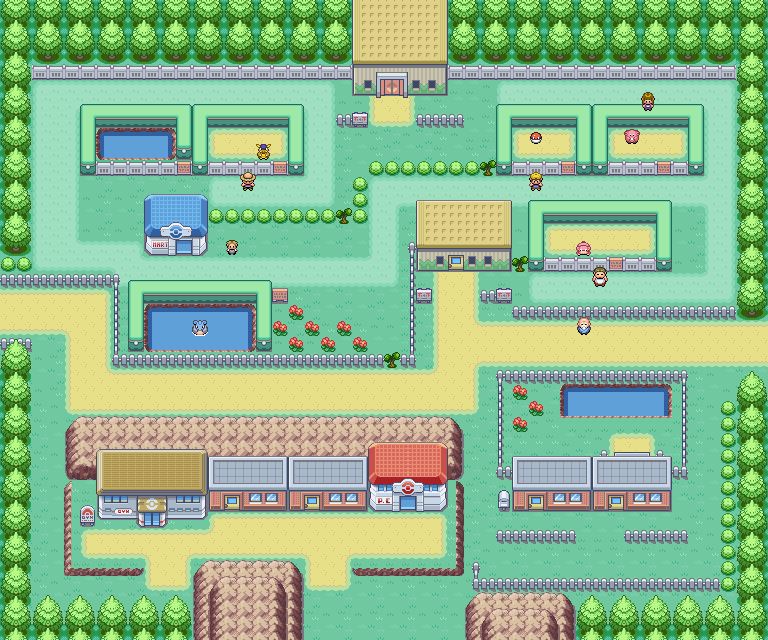
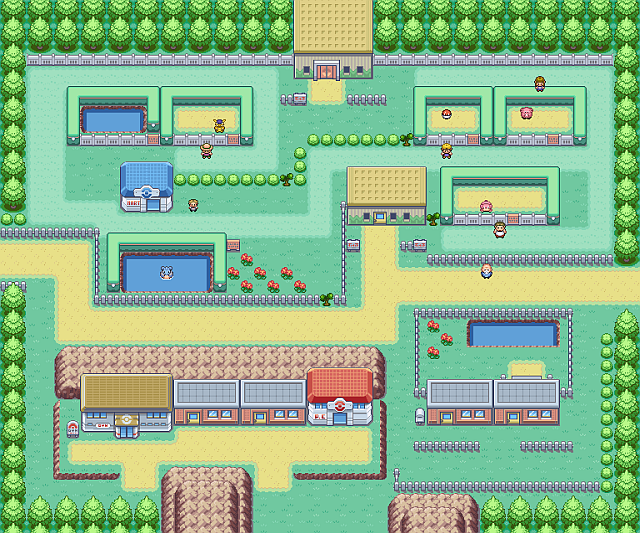
Resized town images/cerulean clicky
*Town images are now 640 width X whatever height
*Cerulean can now be clicked. Some stuff needs implementing

diff --git a/src/styles/style.scss b/src/styles/style.scss
@@ -533,15 +533,15 @@ progress.expBar {
 #palletTownModalBox {
     background-image: url('../assets/backgrounds/kanto/palletTown/palletTown.png');
     background-size: cover;
-    height: 320px;
-    width: 384px;
+    height: 533px;
+    width: 640px;
 }
 
 #palletTownNoOakModalBox {
     background-image: url('../assets/backgrounds/kanto/palletTown/palletTownNoOak.png');
     background-size: cover;
-    height: 320px;
-    width: 384px;
+    height: 533px;
+    width: 640px;
 }
 
 #redHouseModalBox {
@@ -582,8 +582,8 @@ progress.expBar {
 #viridianCityModalBox {
     background-image: url('../assets/backgrounds/kanto/viridianCity/viridianCity.png');
     background-size: cover;
-    width: 568px;
-    height: 473px;
+    height: 533px;
+    width: 640px;
 }
 
 #viridianPokeMartModalBox {
@@ -617,12 +617,8 @@ progress.expBar {
 #pewterCityModalBox {
     background-image: url('../assets/backgrounds/kanto/pewterCity/pewterCity.png');
     background-size: cover;
-    height: 320px;
-    width: 384px;
-}
-
-#pewterCityModalBox .button {
-    background-color: rgb(58, 58, 58);
+    width: 640px;
+    height: 533px;
 }
 
 #pewterMuseumModalBox {
@@ -670,11 +666,8 @@ progress.expBar {
 #ceruleanCityModalBox {
     background-image: url('../assets/backgrounds/kanto/ceruleanCity/ceruleanCity.png');
     background-size: cover;
-    height: 481px;
-}
-
-#ceruleanCityModalBox .button {
-    background-color: rgb(58, 58, 58);
+    height: 533px;
+    width: 640px;
 }
 
 #ceruleanPokeCenterModalBox {
@@ -722,7 +715,8 @@ progress.expBar {
 #vermilionCityModalBox {
     background-image: url('../assets/backgrounds/kanto/vermilionCity/vermilionCity.png');
     background-size: cover;
-    height: 481px;
+    height: 533px;
+    width: 640px;
 }
 
 #vermilionCityModalBox .button {
@@ -763,7 +757,8 @@ progress.expBar {
 #lavenderTownModalBox {
     background-image: url('../assets/backgrounds/kanto/lavenderTown/lavenderTown.png');
     background-size: cover;
-    height: 481px;
+    height: 533px;
+    width: 640px;
 }
 
 #lavenderTownModalBox .button {
@@ -863,8 +858,8 @@ progress.expBar {
 #celadonCityModalBox {
     background-image: url('../assets/backgrounds/kanto/celadonCity/celadonCity.png');
     background-size: cover;
-    width: 480px;
-    height: 320px;
+    height: 427px;
+    width: 640px;
 }
 
 #celadonCityModalBox .button {
@@ -898,7 +893,8 @@ progress.expBar {
 #saffronCityModalBox {
     background-image: url('../assets/backgrounds/kanto/saffronCity/saffronCity.png');
     background-size: cover;
-    height: 481px;
+    height: 533px;
+    width: 640px;
 }
 
 #saffronCityModalBox .button {
@@ -928,7 +924,8 @@ progress.expBar {
 #fuchsiaCityModalBox {
     background-image: url('../assets/backgrounds/kanto/fuchsiaCity/fuchsiaCity.png');
     background-size: cover;
-    height: 481px;
+    height: 533px;
+    width: 640px;
 }
 
 #fuchsiaCityModalBox .button {
@@ -958,7 +955,8 @@ progress.expBar {
 #cinnabarIslandModalBox {
     background-image: url('../assets/backgrounds/kanto/cinnabarIsland/kantoCinnabarIsland.png');
     background-size: cover;
-    height: 481px;
+    height: 533px;
+    width: 640px;
 }
 
 #cinnabarIslandModalBox .button {

diff --git a/src/components/modals/kanto/towns/ceruleanCity/ceruleanCityModal.vue b/src/components/modals/kanto/towns/ceruleanCity/ceruleanCityModal.vue
@@ -4,41 +4,40 @@
     title="Cerulean City"
   >
     <template #body>
-      <div
+      <img
         id="ceruleanCityModalBox"
+        usemap="#ceruleanCitymap"
       >
-        <button
+
+      <map
+        name="ceruleanCitymap"
+      >
+        <area
+          shape="rect"
+          coords="286,0,339,67"
           onclick="userInteractions.nuggetBridgeEvent()"
-          class="button"
         >
-          Nugget Bridge
-        </button><br>
-        <button
-          onclick="userInteractions.checkStory()"
-          class="button"
-        >
-          Burgled House
-        </button><br>
-        <button
+        <area
+          shape="rect"
+          coords="267,206,334,271"
           onclick="userInteractions.ceruleanPokeCenter()"
-          class="button"
         >
-          Pokemon Center
-        </button><br>
-        <button
+        <area
+          shape="rect"
+          coords="360,333,414,387"
           onclick="userInteractions.ceruleanPokeMart()"
-          class="button"
         >
-          PokeMart
-        </button><br>
-        <button
-          id="pokemart"
+        <area
+          shape="rect"
+          coords="373,227,466,292"
           onclick="userInteractions.ceruleanGym()"
-          class="button"
         >
-          Cerulean Gym
-        </button><br>
-      </div>
+        <area
+          shape="rect"
+          coords="373,113,470,162"
+          onclick="userInteractions.checkStory()"
+        >
+      </map>
     </template>
   </CardModal>
 </template>

diff --git a/src/components/modals/kanto/towns/viridianCity/viridianCityModal.vue b/src/components/modals/kanto/towns/viridianCity/viridianCityModal.vue
@@ -14,37 +14,37 @@
       >
         <area
           shape="rect"
-          coords="81,54,159,126"
+          coords="275,77,297,96"
           onclick="userInteractions.viridianDrunkard()"
         >
         <area
           shape="rect"
-          coords="284,267,344,320"
+          coords="320,301,387,359"
           onclick="userInteractions.viridianPokeCenter()"
         >
         <area
           shape="rect"
-          coords="402,191,450,237"
+          coords="452,214,510,270"
           onclick="userInteractions.viridianPokeMart()"
         >
         <area
           shape="rect"
-          coords="390,71,463,124"
+          coords="440,78,521,147"
           onclick="userInteractions.viridianGym()"
         >
         <area
           shape="rect"
-          coords="0,188,70,238"
+          coords="0,208,117,267"
           onclick="userInteractions.viridianToRoute22()"
         >
         <area
           shape="rect"
-          coords="260,412,307,473"
+          coords="293,461,347,533"
           onclick="userInteractions.viridianToRoute1()"
         >
         <area
           shape="rect"
-          coords="223,0,287,24"
+          coords="254,0,321,47"
           onclick="userInteractions.viridianToRoute2Bottom()"
         >
       </map>

diff --git a/src/components/modals/kanto/towns/pewterCity/pewterCityModal.vue b/src/components/modals/kanto/towns/pewterCity/pewterCityModal.vue
@@ -14,32 +14,32 @@
       >
         <area
           shape="rect"
-          coords="97,4,183,64"
+          coords="159,5,375,108"
           onclick="userInteractions.pewterMuseum()"
         >
         <area
           shape="rect"
-          coords="119,173,161,209"
+          coords="199,286,269,349"
           onclick="userInteractions.pewterPokeCenter()"
         >
         <area
           shape="rect"
-          coords="207,120,241,153"
+          coords="344,200,403,256"
           onclick="userInteractions.pewterPokeMart()"
         >
         <area
           shape="rect"
-          coords="95,96,151,136"
+          coords="158,157,256,230"
           onclick="userInteractions.pewterGym()"
         >
         <area
           shape="rect"
-          coords="159,287,194,320"
+          coords="264,471,323,533"
           onclick="userInteractions.pewterToRoute2Top()"
         >
         <area
           shape="rect"
-          coords="320,158,384,191"
+          coords="535,266,640,319"
           onclick="userInteractions.pewterToRoute3West()"
         >
       </map>

diff --git a/src/components/modals/kanto/towns/palletTown/palletTownModal.vue b/src/components/modals/kanto/towns/palletTown/palletTownModal.vue
@@ -14,27 +14,27 @@
       >
         <area
           shape="rect"
-          coords="81,54,159,126"
+          coords="133,93,266,213"
           onclick="userInteractions.redHouse()"
         >
         <area
           shape="rect"
-          coords="224,56,304,128"
+          coords="374,92,506,212"
           onclick="userInteractions.blueHouse()"
         >
         <area
           shape="rect"
-          coords="208,152,320,223"
+          coords="347,253,534,373"
           onclick="userInteractions.oakLab()"
         >
         <area
           shape="rect"
-          coords="161,123,175,145"
+          coords="268,205,294,242"
           onclick="userInteractions.oakLabOak()"
         >
         <area
           shape="rect"
-          coords="189,0,227,37"
+          coords="317,0,377,61"
           onclick="userInteractions.palletToRoute1()"
         >
       </map>

diff --git a/src/components/modals/kanto/towns/palletTown/palletTownNoOakModal.vue b/src/components/modals/kanto/towns/palletTown/palletTownNoOakModal.vue
@@ -14,22 +14,22 @@
       >
         <area
           shape="rect"
-          coords="81,54,159,126"
+          coords="133,93,266,213"
           onclick="userInteractions.redHouse()"
         >
         <area
           shape="rect"
-          coords="224,56,304,128"
+          coords="374,92,506,212"
           onclick="userInteractions.blueHouse()"
         >
         <area
           shape="rect"
-          coords="208,152,320,223"
+          coords="347,253,534,373"
           onclick="userInteractions.oakLab()"
         >
         <area
           shape="rect"
-          coords="189,0,227,37"
+          coords="317,0,377,61"
           onclick="userInteractions.palletToRoute1()"
         >
       </map>

diff --git a/src/modules/actions.js b/src/modules/actions.js
@@ -830,7 +830,7 @@ export default (player, combatLoop, enemy, town, story, appModel) => {
         checkStory: function () {
             const routeData = ROUTES[player.settings.currentRegionId][player.settings.currentRouteId];
             if (routeData.story.name === 'Burgled House') {
-                alert('Good Job');
+                alert('Not implemented yet');
             }
         },
         viridianPokeMartEvent: function () {
